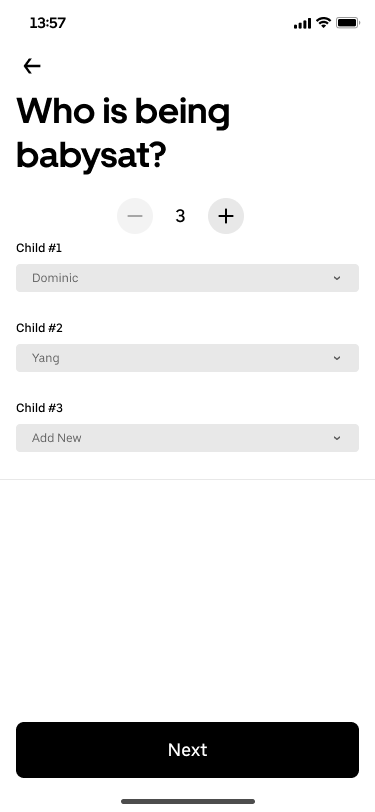
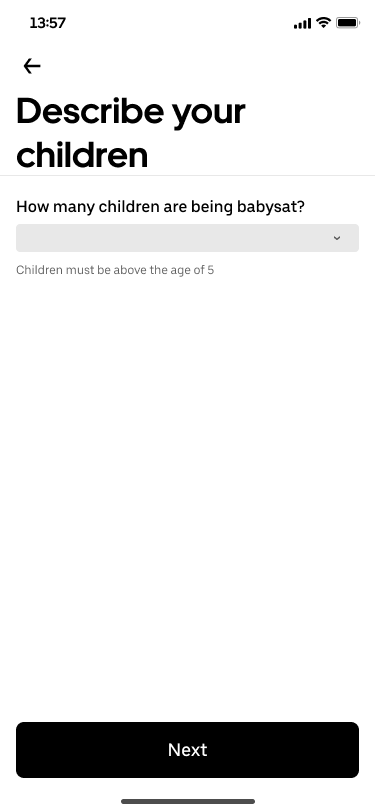
updated children screen

diff --git a/src/Pages/ChildDetails_3/ChildDetails_3.js b/src/Pages/ChildDetails_3/ChildDetails_3.js
@@ -1,0 +1,82 @@
+import React, { useState } from 'react';
+import { Combobox } from 'baseui/combobox';
+import NextButton from '../../Components/MockScreenshot/NextButton/NextButton';
+import { useNavigate } from "react-router-dom";
+
+// Random imports from Base UI
+import { Button } from "baseui/button";
+import './childdetails_3.css'
+import {
+    ProgressSteps,
+    Step
+} from "baseui/progress-steps";
+import MockScreenshot from '../../Components/MockScreenshot/MockScreenshot.js';
+import Image from './childdetails_3.png'; // another image is defined here using file path
+
+function ChildDetails3() {
+  const navigate = useNavigate();
+
+  const [childNames1, setChildNames1] = useState([]);
+  const [childNames2, setChildNames2] = useState([]);
+  const [childNames3, setChildNames3] = useState([]);
+
+  const handleChildNameChange = (index, namesSetter) => ({ value }) => {
+    const updatedNames = [...namesSetter];
+    updatedNames[index] = value;
+    namesSetter(updatedNames);
+  };
+
+  const nameOptions = [
+    { label: 'Dominic' },
+    { label: 'Yang' },
+    { label: 'Add New' },
+  ];
+
+  return (
+    <div style={{ position: 'relative', width: '375px', height: '812px', backgroundImage: `url(${Image})`, backgroundSize: 'cover' }} className='ChildDetails_3 page'>
+      <div className='formatting-container'>
+        <div className="combobox-container">
+          <h3>Child 1:</h3>
+          <Combobox
+            value={childNames1[0] || ''}
+            onChange={handleChildNameChange(0, childNames => setChildNames1(childNames))}
+            options={nameOptions}
+            mapOptionToString={option => option.label}
+          />
+        </div>
+        <div className="combobox-container">
+          <h3>Child 2:</h3>
+          <Combobox
+            value={childNames2[0] || ''}
+            onChange={handleChildNameChange(0, childNames => setChildNames2(childNames))}
+            options={nameOptions}
+            mapOptionToString={option => option.label}
+          />
+        </div>
+        <div className="combobox-container">
+          <h3>Child 3:</h3>
+          <Combobox
+            value={childNames3[0] || ''}
+            onChange={handleChildNameChange(0, childNames => setChildNames3(childNames))}
+            options={nameOptions}
+            mapOptionToString={option => option.label}
+          />
+        </div>
+      </div>
+      <Button onClick={() => { navigate(`/addkid`) }} className='new-screen'
+            style={{
+          width: '350px',
+          height: '50px',
+          position: 'absolute',
+          top: '91%', /* Adjust the top value as needed */
+          left: '4%', /* Adjust the left value as needed */
+          backgroundColor: 'blue', // Set your desired background color
+          opacity: '0%'
+      }}>
+          {/*make sure navigate param matches path defined in App.js*/}
+      </Button>  
+    </div>
+  );
+}
+
+export default ChildDetails3;

diff --git a/src/Pages/ChildDetails_2/ChildDetails_2.js b/src/Pages/ChildDetails_2/ChildDetails_2.js
@@ -1,7 +1,5 @@
 import React, { useState } from 'react';
-import StepperCounter from './StepperCounter';
 import { Combobox } from 'baseui/combobox';
-import screenshot from './childdetails.png';  // Change the path to your actual screenshot path
 import NextButton from '../../Components/MockScreenshot/NextButton/NextButton';
 import { useNavigate } from "react-router-dom";
 
@@ -12,14 +10,13 @@ import {
     Step
 } from "baseui/progress-steps";
 import MockScreenshot from '../../Components/MockScreenshot/MockScreenshot.js';
-import Image from './childdetails.png'; // another image is defined here using file path
-import './childdetails.css';
+import Image from './childdetails_2.png'; // another image is defined here using file path
 
-function ParticipantDetails() {
+function ChildDetails2() {
   let navigate = useNavigate();
   return (
     <div style={{ position: 'relative', width: '375px', height: '812px', backgroundImage: `url(${Image})`, backgroundSize: 'cover' }}>
-            <Button onClick={() => { navigate(`/ChildDetails2`) }} className='activity-bottom' // CHANGE
+            <Button onClick={() => { navigate(`/ChildDetails`) }} className='activity-bottom'
             style={{
                 width: '340px',
                 height: '30px',
@@ -31,8 +28,21 @@ function ParticipantDetails() {
             }}>
                 {/*make sure navigate param matches path defined in App.js*/}
             </Button>   
+            
+            <Button onClick={() => { navigate(`/ChildDetails3`) }} className='activity-bottom'
+            style={{
+                width: '340px',
+                height: '30px',
+                position: 'absolute',
+                top: '38%', /* Adjust the top value as needed */
+                left: '5%', /* Adjust the left value as needed */
+                backgroundColor: 'blue', // Set your desired background color
+                opacity: '0%'
+            }}>
+                {/*make sure navigate param matches path defined in App.js*/}
+            </Button>   
     </div>
   );
 }
 
-export default ParticipantDetails;
+export default ChildDetails2;

diff --git a/src/App.js b/src/App.js
@@ -34,6 +34,9 @@ import RateTip from './Pages/RateTipScreen/RateTip';
 import LocationDetails from './Pages/LocationDetails/LocationDetails';
 import LocationSelect from './Pages/LocationSelect/LocationSelect';
 
+import ChildDetails2 from './Pages/ChildDetails_2/ChildDetails_2'
+import ChildDetails3 from './Pages/ChildDetails_3/ChildDetails_3'
+
 import NewFeature from './Pages/[DEPRECATED] NewFeature/NewFeature';
 
 const engine = new Styletron();
@@ -68,7 +71,8 @@ function App() {
               <Route path="/ratetip" element={<RateTip />} />
               <Route path="/locationDetails" element={<LocationDetails address={curAddress} setAddress={setCurAddress}/>}/>
               <Route path="/locationSelect" element={<LocationSelect address={curAddress} setAddress={setCurAddress}/>}/>
-
+              <Route path="/childdetails2" element={<ChildDetails2 />} />
+              <Route path="/childdetails3" element={<ChildDetails3 />} />
               <Route path="/newfeature" element={<NewFeature />} />
 
             </Routes>

diff --git a/src/Pages/ChildDetails/childdetails.css b/src/Pages/ChildDetails/childdetails.css
@@ -5,6 +5,7 @@
     flex-direction: column;
 }
 
-.NewFeature .formatting-container button {
-    margin-top: 20px;
-}
+.baseui-select {
+    font-size: 14px; /* Adjust the font size as needed */
+    max-height: 150px; /* Adjust the max-height as needed */
+  }

diff --git a/src/Pages/ChildDetails_3/childdetails_3.css b/src/Pages/ChildDetails_3/childdetails_3.css
@@ -1,0 +1,6 @@
+.ChildDetails_3 .formatting-container {
+    margin-top: 50px;
+    display: flex;
+    flex-direction: column;
+    width:350px;
+}
